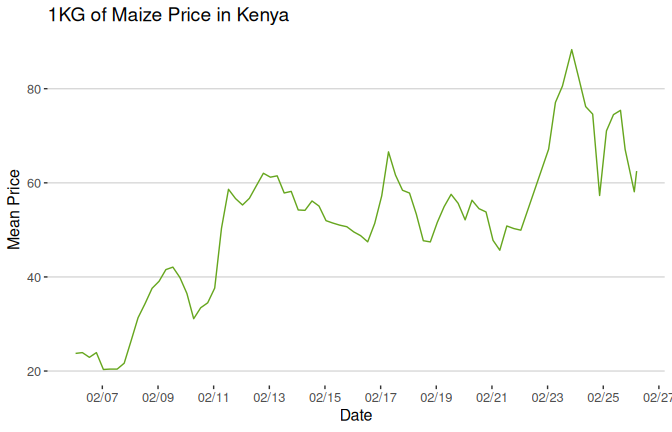
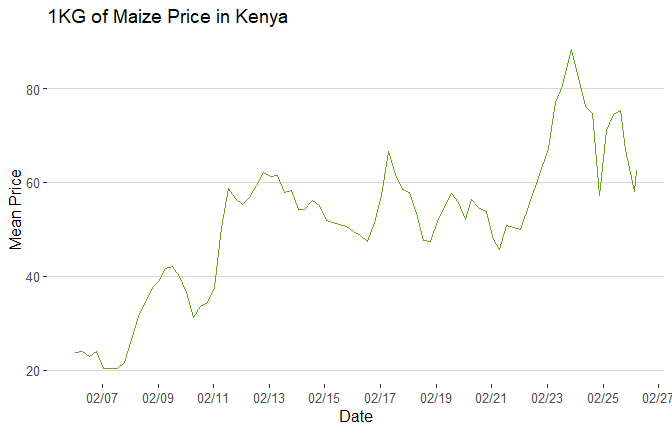
ci: automate climate refresh

diff --git a/README.md b/README.md
@@ -5,7 +5,8 @@
 
 <!-- badges: start -->
 
-[![R-CMD-check](https://github.com/m-mburu/kenyaFoodPrices/actions/workflows/R-CMD-check.yaml/badge.svg)](https://github.com/m-mburu/kenyaFoodPrices/actions/workflows/R-CMD-check.yaml)
+[![Monthly data
+refresh](https://github.com/m-mburu/kenyaFoodPrices/actions/workflows/dowload_data.yaml/badge.svg)](https://github.com/m-mburu/kenyaFoodPrices/actions/workflows/dowload_data.yaml)
 <!-- badges: end -->
 
 This package visualizes food prices and climate conditions in Kenya.
@@ -24,6 +25,16 @@ first, followed by county trends and exploratory lagged relationships
 with the selected commodity price. See
 [CLIMATE_IMPLEMENTATION.md](CLIMATE_IMPLEMENTATION.md) for the download,
 processing, data structure, visual design and limitations.
+
+## Latest climate conditions
+
+The maps below show each county’s latest rainfall and vegetation
+conditions relative to its historical pattern. Negative values indicate
+below-normal conditions, while positive values indicate above-normal
+conditions. Open the app’s Climate tab for physical values, county
+trends and commodity-price comparisons.
+
+<img src="man/figures/README-latest-climate-choropleth-1.png" alt="" width="100%" />
 
 ## Installation
 
@@ -62,9 +73,16 @@ ke_food_prices_maize[, .(mean_price = mean(price)), by = .(year_quarter_date)] %
 ``` r
 # Example usage of the function
 display_time_in_timezone("Africa/Nairobi")
-#> Last Run On (Your System Timezone): 2026-07-03 11:00:36 UTC
-#> Last Run On (Specified Timezone): 2026-07-03 14:00:36 Africa/Nairobi
+#> Last Run On (Your System Timezone): 2026-07-15 17:07:47 Africa/Nairobi
+#> Last Run On (Specified Timezone): 2026-07-15 17:07:47 Africa/Nairobi
 ```
 
-- **Thanks to WFP for providing the data on Humanitarian Data Exchange
-  (HDX)**
+## Acknowledgements
+
+- **World Food Programme (WFP)** for publishing Kenya food-price,
+  rainfall and vegetation indicators.
+- **World Bank Joint Food Security Monitor team** for harmonising the
+  climate indicators to current Kenyan administrative boundaries.
+- **World Health Organization (WHO)** for its nutrition and
+  public-health guidance, which helps frame the food-affordability
+  context of this work.